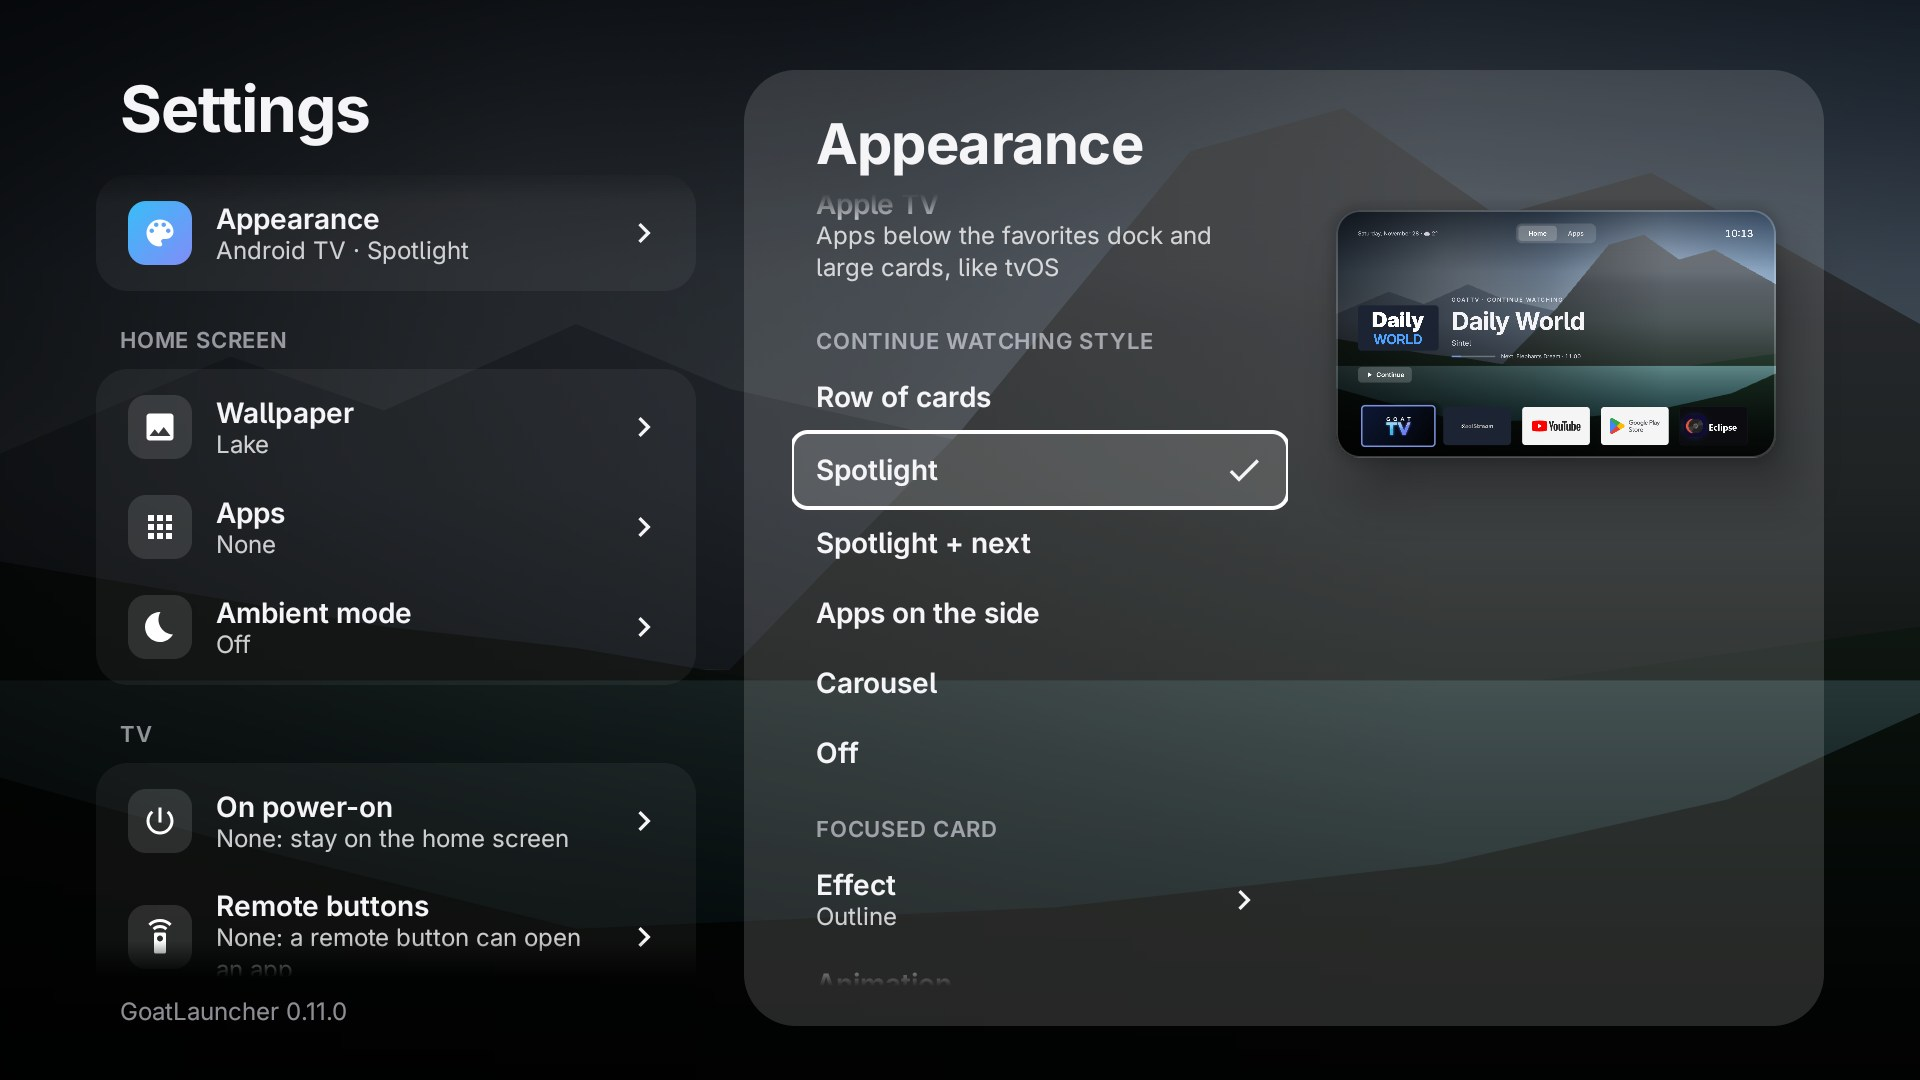
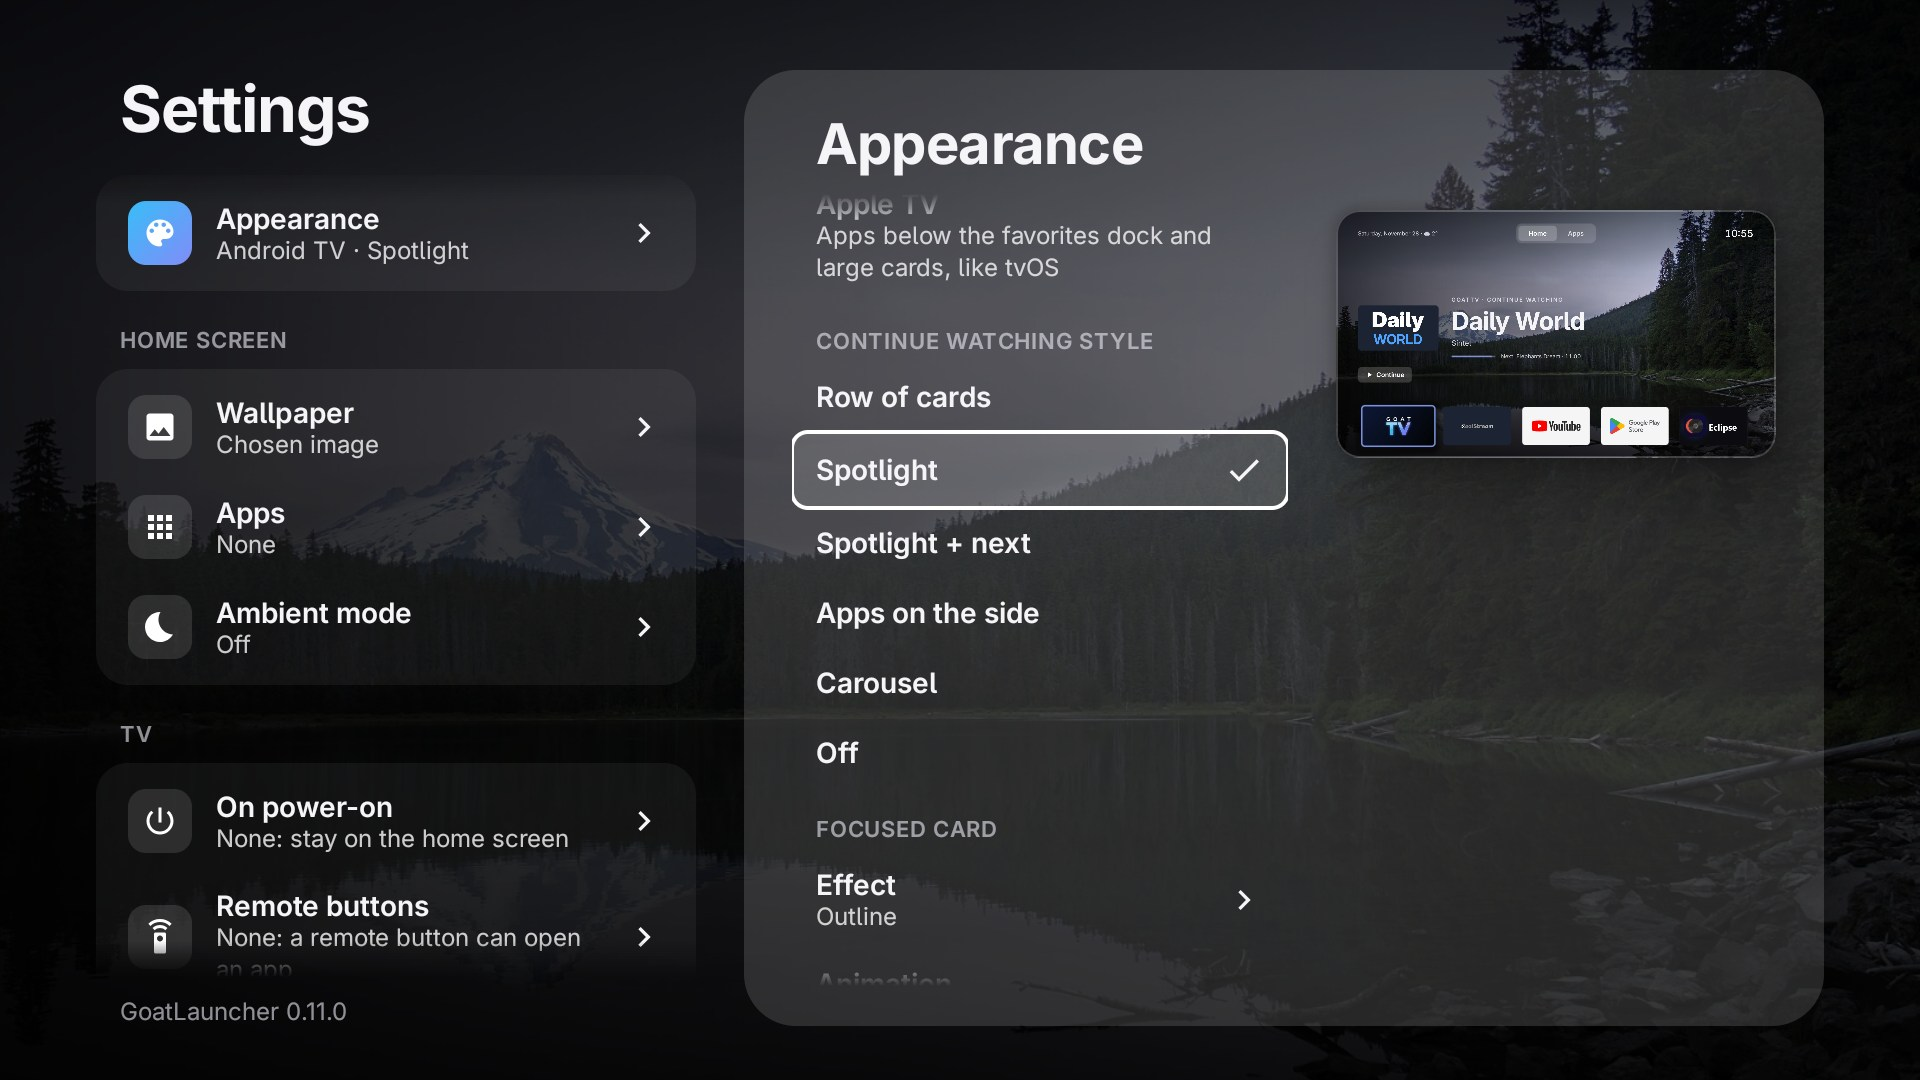
Retake README screenshots with open movies and CC0 wallpapers
RealJF replaces Nuvio in the dock; Continue watching shows Blender
Foundation open movies; wallpapers are CC0 photos from Wikimedia Commons.

diff --git a/README.md b/README.md
@@ -12,8 +12,10 @@ A home screen for Android TV and Google TV.
 | ![Appearance, Android TV style](docs/screenshots/appearance-android-tv.jpg) | ![Appearance, tvOS style](docs/screenshots/appearance-tvos.jpg) |
 | ![Aurora focus effect](docs/screenshots/effect-aurora.jpg) | ![Floating ring focus effect](docs/screenshots/effect-floating-ring.jpg) |
 
-Continue watching from GoatTV with a demo playlist (made-up channels; the programme names are Blender Foundation
-open movies). Wallpaper: the built-in "Lake".
+Continue watching from a Jellyfin client (RealJF) with Blender Foundation open movies (Big Buck Bunny, Sintel, Tears
+of Steel, Cosmos Laundromat; © Blender Foundation, CC BY 3.0/4.0, [blender.org](https://studio.blender.org/films/)),
+and from GoatTV with a demo playlist (made-up channels). Wallpapers (CC0, Wikimedia Commons): "Marmolada, Italy" by
+Marco Bonomo and "Lake Mountain Landscape" by Bonnie Moreland.
 
 ## Install
 
